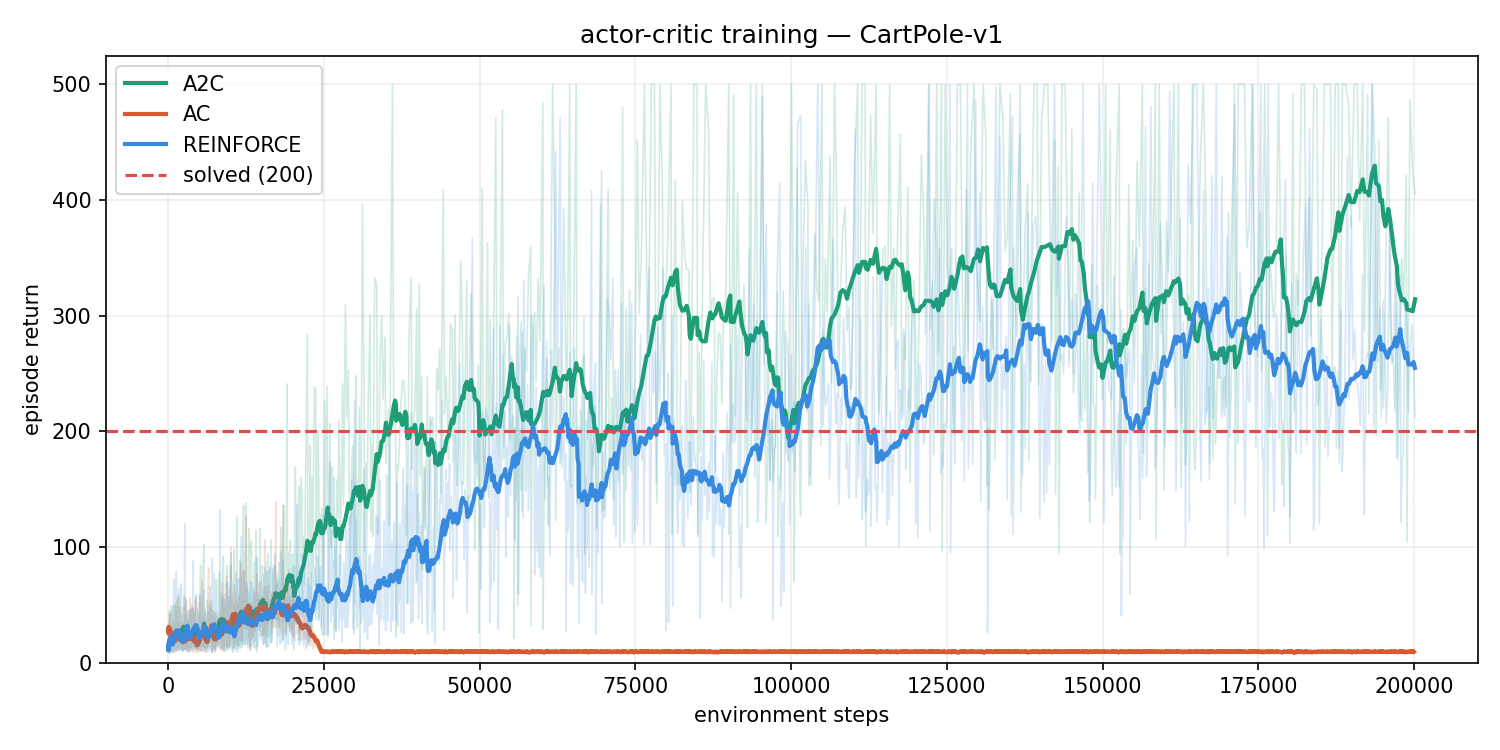
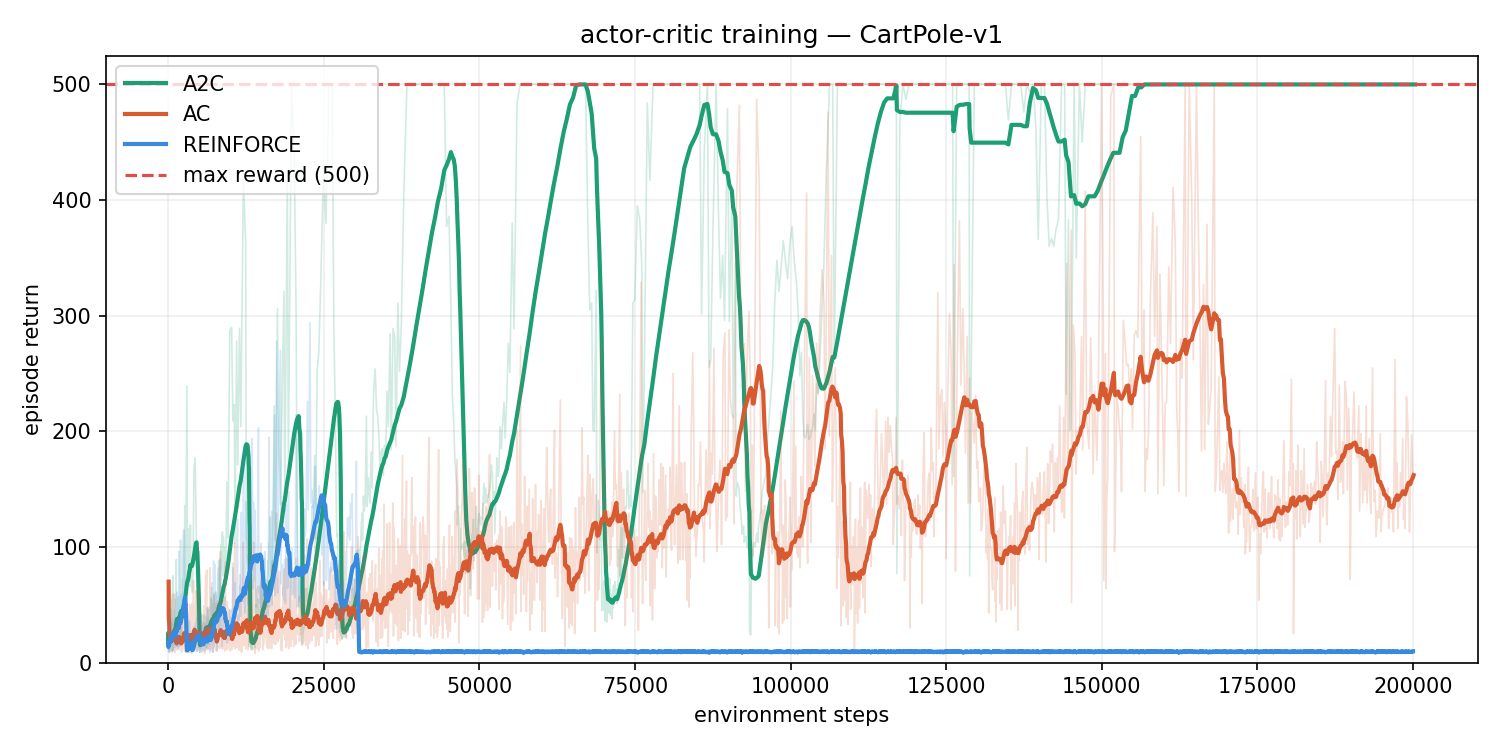
implemented bug fixes; works now somewhat reliably

Changed region(s): [[0.092, 0.092, 0.9813, 0.92], [0.184, 0.092, 0.2147, 0.1227]]

diff --git a/agents.py b/agents.py
@@ -48,7 +48,7 @@ class ModelFreeLearner():
     This design choice prevents code duplication since the core functionalities in the 
     optimization/ training step is the same for each learner. We initialize the 
     """
-    def __init__(self, env:gym.Env, n_actor_layers, n_critic_layers, gamma, lr):
+    def __init__(self, env:gym.Env, n_actor_layers, n_critic_layers, gamma, actor_lr, critic_lr):
         # initialize environment and exrtract state and action space
         self.env = env
         self.n_actions = self.env.action_space.n
@@ -66,11 +66,10 @@ class ModelFreeLearner():
         self.values = []
         self.log_probs = []
         self.rewards = []
-        self.deltas = []
 
         # initilize optimizers
-        self.actor_optim = optim.Adam(self.actor.parameters(), lr=lr)
-        self.critic_optim = optim.Adam(self.critic.parameters(), lr=lr)
+        self.actor_optim = optim.Adam(self.actor.parameters(), lr=actor_lr)
+        self.critic_optim = optim.Adam(self.critic.parameters(), lr=critic_lr)
     
     def __select_action__(self, state):
         state = torch.from_numpy(state).float()
@@ -89,14 +88,13 @@ class ModelFreeLearner():
         del self.values[:]
         del self.log_probs[:]
         del self.rewards[:]
-        del self.deltas[:]
 
     def __update_actor__(self, returns):
         pass
 
     def __update_critic__(self,returns):
         # loss between target value (calculated from returns) and predicted q_vals
-        loss = F.smooth_l1_loss(torch.stack(self.values).squeeze(-1), returns)
+        loss = F.mse_loss(torch.stack(self.values), returns.detach())
 
         # do gradient decent step
         self.critic_optim.zero_grad()
@@ -111,15 +109,7 @@ class ModelFreeLearner():
         for r in self.rewards[::-1]:
             R = r + self.gamma * R
             returns.insert(0,R)
-        return torch.as_tensor(returns, dtype=float)
-
-    def __get_deltas__(self,state, action, reward, next_state, next_action):
-        state = torch.from_numpy(state).float()
-        next_state = torch.from_numpy(next_state).float()
-        q_value = self.critic(state)[action]
-        next_q_value = self.critic(next_state)[next_action]
-        delta = (reward + self.gamma * q_value) - next_q_value
-        return delta
+        return torch.as_tensor(returns, dtype=torch.float32)
     
     def optimize(self, budget):
         iterations = budget
@@ -145,10 +135,7 @@ class ModelFreeLearner():
                 self.rewards.append(reward)
                 self.log_probs.append(log_prob)
 
-                # calculate the td error (called delta here)
                 next_action, log_prob = self.__select_action__(state)
-                delta = self.__get_deltas__(state,action,reward,next_state,next_action)
-                self.deltas.append(delta)
                 
                 # advance state and action
                 state = next_state
@@ -181,12 +168,12 @@ class ModelFreeLearner():
 
     
 class REINFORCE(ModelFreeLearner):
-    def __init__(self, env, n_actor_layers, n_critic_layers, gamma, lr):
-        super().__init__(env, n_actor_layers, n_critic_layers, gamma, lr)
-    
+    def __init__(self, env, n_actor_layers, n_critic_layers, gamma, actor_lr, critic_lr):
+        super().__init__(env, n_actor_layers, n_critic_layers, gamma, actor_lr, critic_lr)
     def __update_actor__(self, returns):
         # Calculate loss; the - is introduced since we want to acent gradients -> negative loss gradient descent 
-        loss = torch.sum(-torch.stack(self.log_probs) * torch.tensor(returns))
+        
+        loss = torch.sum(-torch.stack(self.log_probs) * returns.detach())
 
         # do gradient decent step
         self.actor_optim.zero_grad()
@@ -200,12 +187,12 @@ class REINFORCE(ModelFreeLearner):
         pass
 
 class AC(ModelFreeLearner):
-    def __init__(self, env, n_actor_layers, n_critic_layers, gamma, lr):
-        super().__init__(env, n_actor_layers, n_critic_layers, gamma, lr)
+    def __init__(self, env, n_actor_layers, n_critic_layers, gamma, actor_lr, critic_lr):
+        super().__init__(env, n_actor_layers, n_critic_layers, gamma, actor_lr, critic_lr)
     
     def __update_actor__(self, returns):
         # Calculate loss; the - is introduced since we want to acent gradients -> negative loss gradient descent 
-        loss = torch.sum(-torch.stack(self.log_probs) * torch.stack(self.deltas))
+        loss = torch.sum(-torch.stack(self.log_probs) * torch.stack(self.values).detach())
 
         # do gradient decent step
         self.actor_optim.zero_grad()
@@ -214,8 +201,8 @@ class AC(ModelFreeLearner):
 
 
 class A2C(ModelFreeLearner):
-    def __init__(self, env, n_actor_layers, n_critic_layers, gamma, lr):
-        super().__init__(env, n_actor_layers, n_critic_layers, gamma, lr)
+    def __init__(self, env, n_actor_layers, n_critic_layers, gamma, actor_lr, critic_lr):
+        super().__init__(env, n_actor_layers, n_critic_layers, gamma, actor_lr, critic_lr)
     
     def __update_actor__(self, returns):
         # calculate advantages
@@ -235,5 +222,5 @@ if __name__ == "__main__":
 
     # quick test run; The episode returns are maximised at roughly 98 since we are using a discount factor 
     env = gym.make("CartPole-v1")
-    actor_critic = A2C(env,1,1,0.99, 6.25e-5)
+    actor_critic = AC(env,1,1,0.99, 0.001,0.01)
     actor_critic.optimize(200000)

diff --git a/test.py b/test.py
@@ -23,7 +23,7 @@ def rolling_average(data, window=20):
     return [np.mean(data[max(0, i - window + 1):i + 1]) for i in range(len(data))]
 
 
-def plot_results(results: dict[str, list[tuple]], window=20, solved_threshold=200):
+def plot_results(results: dict[str, list[tuple]], window=20, solved_threshold=500):
     """
     results: dict of {"label": episode_rewards list, ...}
     e.g. {"A2C": a2c_rewards, "AC": ac_rewards}
@@ -39,7 +39,7 @@ def plot_results(results: dict[str, list[tuple]], window=20, solved_threshold=20
         ax.plot(steps, avg, color=color, linewidth=2, label=label)
 
     ax.axhline(solved_threshold, color="#E24B4A", linewidth=1.5,
-               linestyle="--", label=f"solved ({solved_threshold})")
+               linestyle="--", label=f"max reward ({solved_threshold})")
 
     ax.set_xlabel("environment steps")
     ax.set_ylabel("episode return")
@@ -54,9 +54,9 @@ def plot_results(results: dict[str, list[tuple]], window=20, solved_threshold=20
 
 env = gym.make("CartPole-v1")
 
-actor_critic = AC(env,2,2,0.99, 6.25e-5)
-advantage_actor_critic = A2C(env,2,2,0.99, 6.25e-5)
-REINFORCE_agent = REINFORCE(env,2,2,0.99, 6.25e-5)
+actor_critic = AC(env,2,2,0.99, 0.0001,0.001)
+advantage_actor_critic = A2C(env,2,2,0.99, 0.001,0.01)
+REINFORCE_agent = REINFORCE(env,2,2,0.99, 0.01,0.01)
 
 ac_rewards = actor_critic.optimize(200000)
 a2c_rewards = advantage_actor_critic.optimize(200000)
@@ -64,5 +64,6 @@ REINFORCE_rewards = REINFORCE_agent.optimize(200000)
 
 # --- usage ---
 plot_results({"A2C": a2c_rewards, "AC": ac_rewards, "REINFORCE": REINFORCE_rewards})
+
 
 
